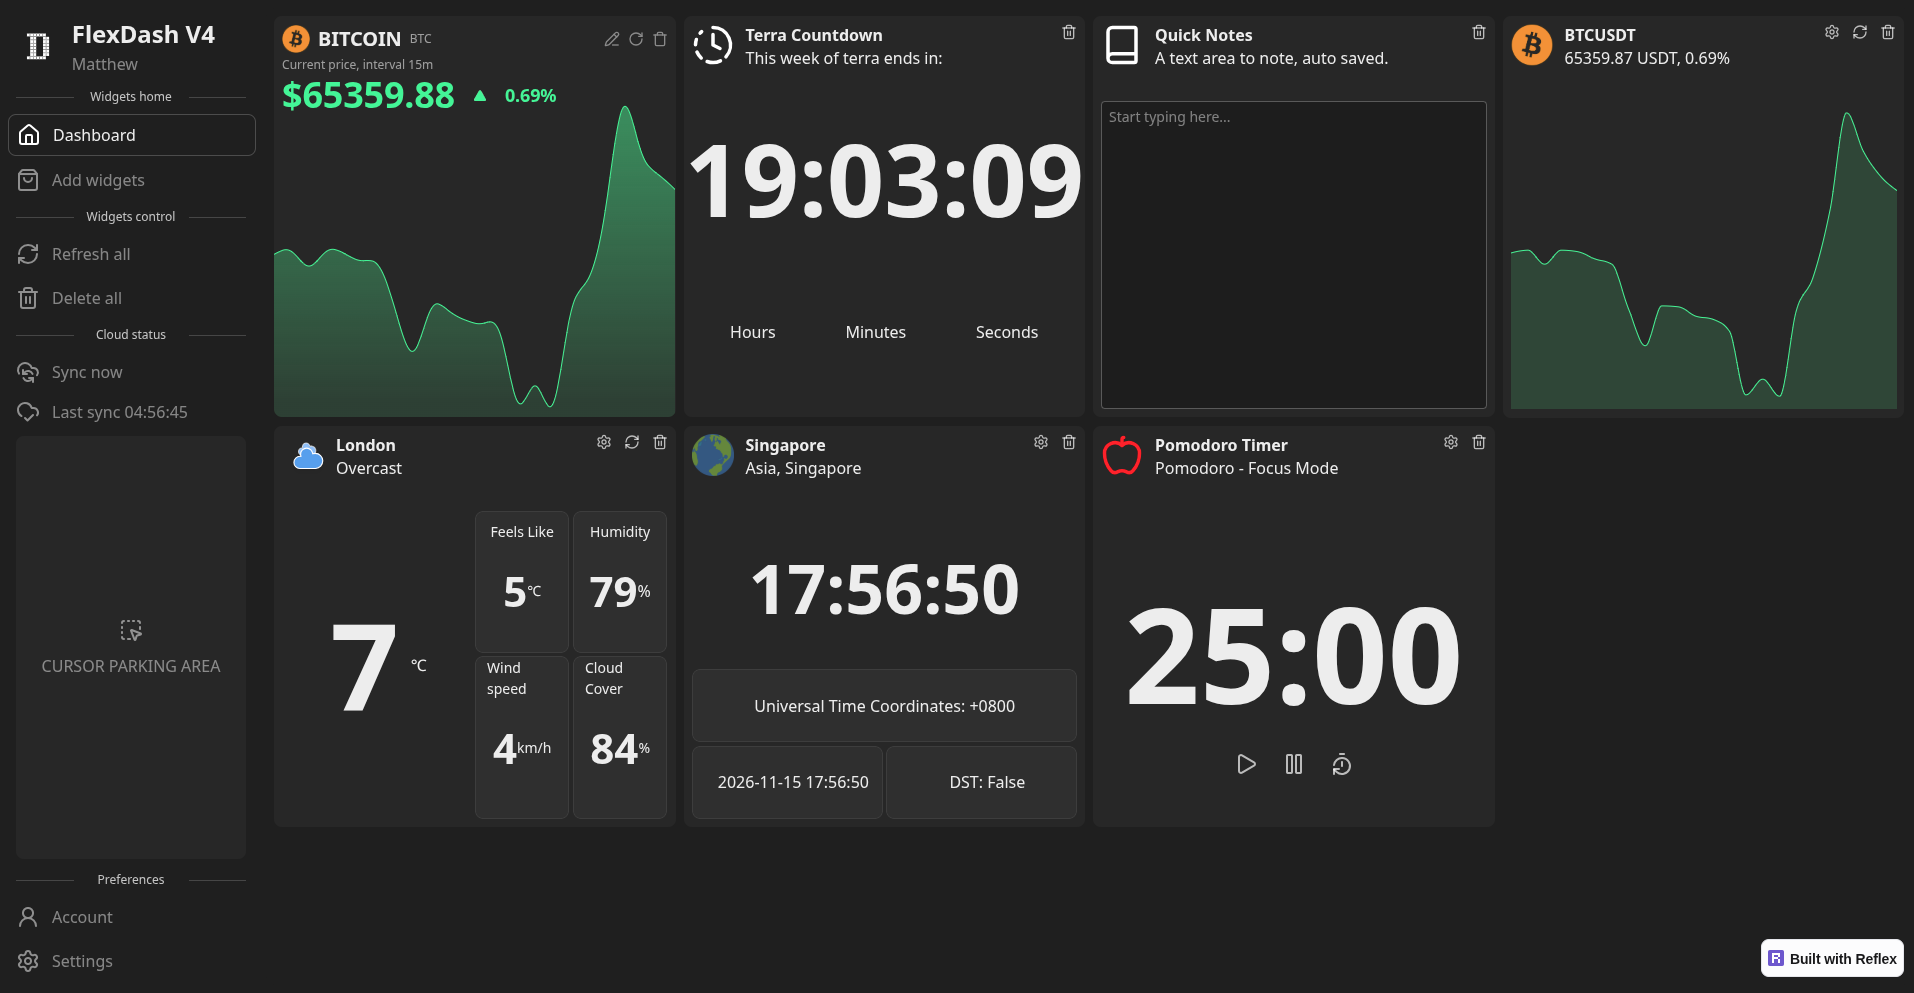
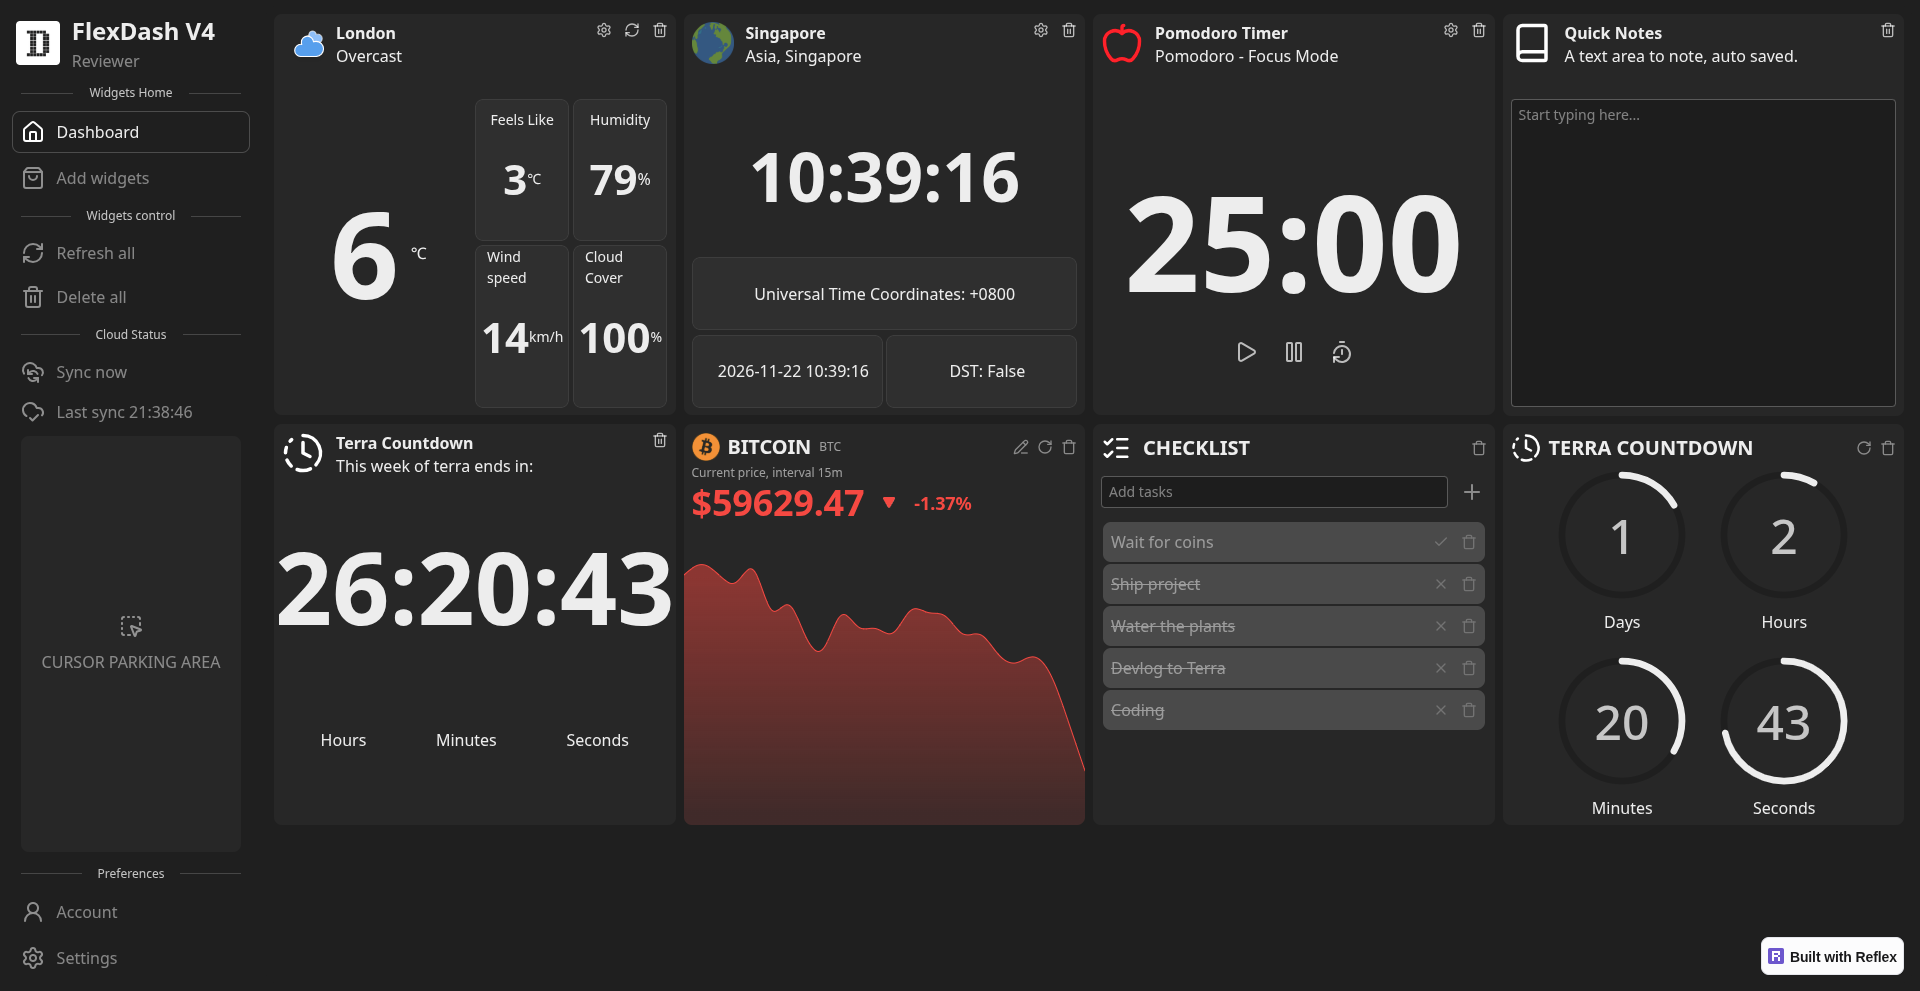
V5.5 Release

diff --git a/FlexDashV5/FDcomponents.py b/FlexDashV5/FDcomponents.py
@@ -8,32 +8,32 @@ from . import FDwidgetsV2
 # ---- SIDEBAR START
 def sidebar_items(name: str, image: str, link: str, redirect: bool) -> rx.Component:
     return rx.button(
-            rx.hstack(
-                rx.image(src=f"{image}_{Dashboard.appearance}.svg"),
-                rx.cond(Dashboard.expanded, rx.text(name, font_size="16px", color=Dashboard.colors["text"], white_space="nowrap"), rx.fragment()),
-                width="100%",
-                height="100%",
-                align="center",
-            ),
-            opacity = rx.cond(Dashboard.page == link.lower(), 1 , 0.5),
-            _hover={"opacity": 1.0},
-            transition="all 0.2s ease-in-out",
+        rx.hstack(
+            rx.image(src=f"{image}_{Dashboard.appearance}.svg"),
+            rx.cond(Dashboard.expanded, rx.text(name, font_size="16px", color=Dashboard.colors["text"], white_space="nowrap"), rx.fragment()),
             width="100%",
-            variant="ghost",
-            border_radius=Dashboard.smoothness,
-            height="32px",
-            on_click= Dashboard.set_page(link, redirect),
-            border = rx.cond(
-                Dashboard.page == link.lower(), 
-                rx.cond(
-                    Dashboard.appearance=="dark",
-                    "1px solid rgba(255, 255, 255, 0.2)",
-                    "1px solid rgba(0, 0, 0, 0.2)"
-                ),
-                "1px solid transparent"
+            height="100%",
+            align="center",
+            justify=rx.cond(Dashboard.expanded, "start", "center"),
+        ),
+        opacity = rx.cond(Dashboard.page == link.lower(), 1 , 0.5),
+        _hover={"opacity": 1.0},
+        transition="all 0.2s ease-in-out",
+        width="100%",
+        variant="ghost",
+        border_radius=Dashboard.smoothness,
+        height="32px",
+        on_click= Dashboard.set_page(link, redirect),
+        border = rx.cond(
+            Dashboard.page == link.lower(), 
+            rx.cond(
+                Dashboard.appearance=="dark",
+                "1px solid rgba(255, 255, 255, 0.2)",
+                "1px solid rgba(0, 0, 0, 0.2)"
             ),
-            
-        )
+            "1px solid transparent"
+            )
+    )
 def sidebar_items_functional(name: str, image: str, function) -> rx.Component:
     return rx.button(
         rx.hstack(
@@ -41,7 +41,8 @@ def sidebar_items_functional(name: str, image: str, function) -> rx.Component:
             rx.cond(Dashboard.expanded, rx.text(name, font_size="16px", color=Dashboard.colors["text"], white_space="nowrap"), ""),
             width="100%",
             height="100%",
-            align="center",
+            align_items="center",
+            justify=rx.cond(Dashboard.expanded, "start", "center"),
         ),
         opacity = 0.5,
         _hover={"opacity": 1.0},
@@ -72,7 +73,7 @@ def sidebar() -> rx.Component:
         rx.vstack(
             rx.hstack(
                 rx.image(
-                    src="/logo.svg", 
+                    src=f"/logo_{Dashboard.appearance}.svg", 
                     border_radius="4px", 
                     width=rx.cond(Dashboard.expanded, "19%", "48px"),
                     height="auto",
@@ -110,6 +111,7 @@ def sidebar() -> rx.Component:
                     variant="ghost",
                     border_radius=Dashboard.smoothness,
                     height="32px",
+                    justify=rx.cond(Dashboard.expanded, "start", "center"),
                 ),
                 rx.flex(
                     rx.vstack(
@@ -157,7 +159,7 @@ def sidebar() -> rx.Component:
         color=Dashboard.colors["text"],
         overflow="hidden",
         style={
-            "transition" : "width 1s ease-in-out",
+            "transition" : "width 0.2s ease-in-out",
         },
     )
         
@@ -263,6 +265,7 @@ def show_devices(device: list):
                                 Auth.handle_logout_device(device[4]),
                                 None,
                             ),
+                            type="password"
                         ),
                         rx.button(rx.text("Continue"), width="100%", on_click=Auth.handle_logout_device(device[4])),
                         width="100%",

diff --git a/FlexDashV5/FDpages.py b/FlexDashV5/FDpages.py
@@ -385,7 +385,7 @@ def signin() -> rx.Component:
                 rx.box(
                     rx.vstack(
                         rx.vstack(
-                            rx.image(src="/logo.svg", width="60px", border_radius="5px"),
+                            rx.image(src="/logo_light.svg", width="60px", border_radius="5px"),
                             rx.heading("Sign in to your account", size="7"),
                             width="100%",
                             align="center",
@@ -444,7 +444,7 @@ def signup() -> rx.Component:
             rx.box(
                 rx.vstack(
                     rx.vstack(
-                        rx.image(src="/logo.svg", width="60px", border_radius="5px"),
+                        rx.image(src="/logo_light.svg", width="60px", border_radius="5px"),
                         rx.heading("Create account", size="7"),
                         width="100%",
                         align="center",
@@ -503,7 +503,7 @@ def security() -> rx.Component:
             rx.box(
                 rx.vstack(
                     rx.vstack(
-                        rx.image(src="/logo.svg", width="60px", border_radius="5px"),
+                        rx.image(src="/logo_light.svg", width="60px", border_radius="5px"),
                         rx.heading("Action needed", size="7"),
                         spacing="5",
                         width="100%",
@@ -544,7 +544,7 @@ def recovery() -> rx.Component:
             rx.box(
                 rx.vstack(
                     rx.vstack(
-                        rx.image(src="/logo.svg", width="60px", border_radius="5px"),
+                        rx.image(src="/logo_light.svg", width="60px", border_radius="5px"),
                         rx.heading("Forgot Password", size="7"),
                         width="100%",
                         align="center",

diff --git a/FlexDashV5/FDauth.py b/FlexDashV5/FDauth.py
@@ -12,7 +12,7 @@ from datetime import datetime, timezone
 from .FDapi import worldclock_get_time
 
 ph = PasswordHasher()
-ENV = 'DEV' 
+ENV = 'DOCKER' 
 
 if ENV == 'DEV':
     r = redis.Redis(
@@ -23,7 +23,7 @@ if ENV == 'DEV':
 
 else:
     r = redis.Redis(
-        host= 'FlexDashDragonfly',
+        host= 'dragonfly_db',
         port= 6379,
         decode_responses= True
     )

diff --git a/FlexDashV5/FDapi.py b/FlexDashV5/FDapi.py
@@ -5,7 +5,7 @@ from pathlib import Path
 from datetime import datetime, timezone, timedelta, UTC
 from pytz import timezone
 
-ENV = "DEV" # DOCKER
+ENV = "DOCKER" # DOCKER
 
 session = requests_cache.CachedSession(
     'binance_cache',  # Name of the local cache file/storage

diff --git a/FlexDashV5/FDstates.py b/FlexDashV5/FDstates.py
@@ -45,7 +45,7 @@ def load_json(json_path):
     except Exception as e:
         print(e)
         return []
-        
+
 class Dashboard(rx.State):
     # ---- THEME START
     appearance: Literal['dark', 'inherit', 'light'] = "dark"

diff --git a/README.md b/README.md
@@ -8,11 +8,13 @@ A website built with **Python Reflex**, includes daily needed widget. ( Formerly
 - **World Clock** - Display live time of a city, auto refresh.
 - **Pomodoro TImer** - Pomodoro based timer that let you focus
 - **Quick Notes** - A blank space for you to type anything
-- **Terra countdown** - Shows how much hours you have left to code and ship.
+- **Terra countdown** - Shows how much hours you have left to code and ship, now with Two Versions
+- **Checklist** - A widget allows you to add tasks, mark as done, delete
 
 ## Versions
-- FlexDash V4, Latest Relased : [Website Link](https://flexdasboard.xyz/home)
-- FlexDash V3  , Released
+- FlexDash V5 , [Website Link][https://v5.flexdashboard.xyz]
+- FlexDash V4 , [Website Link](https://flexdasboard.xyz/home)
+- FlexDash V3 , Released
 - Personal Dashboard V2  , Released
 - Personal Dashboard V1  , Released
 - Personal Dashboard Beta, Released
@@ -32,7 +34,7 @@ A website built with **Python Reflex**, includes daily needed widget. ( Formerly
 - **Weather Icons** - Source of weather icons, [Weather Icons](https://github.com/Makin-Things/weather-icons)
 - **World Clock Icons** - Images used in world clock widget, [Image website](https://pixabay.com/vectors/global-earth-world-map-globe-1889726/)
 - **Opentimezone** - Source of timezones, downloaded one file, [TimeZones](https://api.opentimezone.com/timezones) [Github repository](https://github.com/ashtonav/opentimezone)
-- **Lucide Icons** - Source of some cards icon, downloaded icon's svg.
+- **Lucide Icons** - Source of some widget icon, downloaded icon's svg.
 
 ## AI Disclosure
 This project was helped by Gemini to fix little bugs. `AGENTS.md` and `CLAUDE.md` is automatically generated by Reflex Python cannot be deleted.

diff --git a/RUNNING.md b/RUNNING.md
@@ -1,10 +1,10 @@
 ## How to run locally (Linux only)
 
-**FlexDash V4 and FlexDash V3, docker compose** 
+**Docker compose, for FlexDash V3, V4, V5** 
 1. Install docker. If you haven't, visit [Docker Desktop Installation](https://docs.docker.com/desktop/)
 2. Download docker-compose.yml at release page 
 3. Create a folder and move docker-compose.yml into it
-4. Run `docker compose up` and visit [Website](localhost:3000)  
+4. Run `docker compose up` and visit [Website](localhost:65510)  
 Note: Running this will not have HTTPS.
 
 **Personal Dashboard V2 Docker (Install docker first.)** [Click when you done command below](http://localhost:65003)
